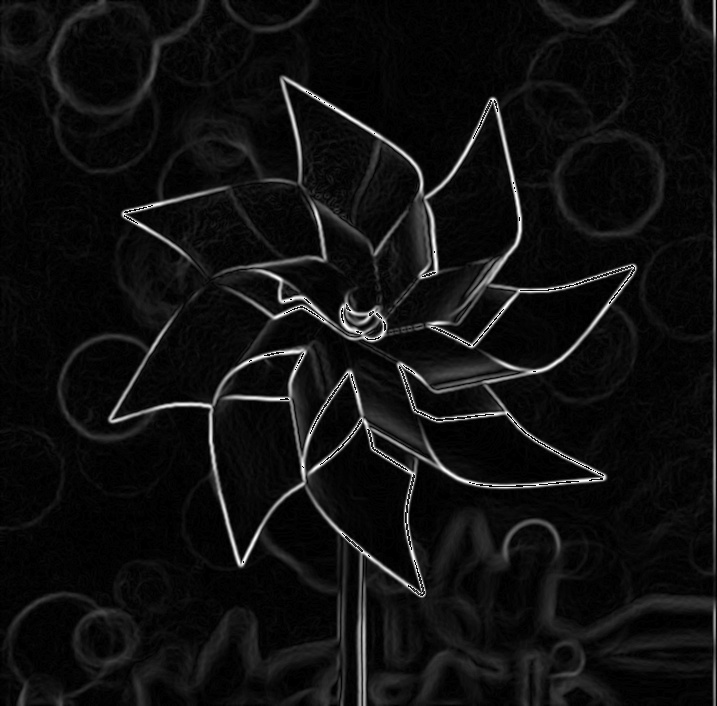
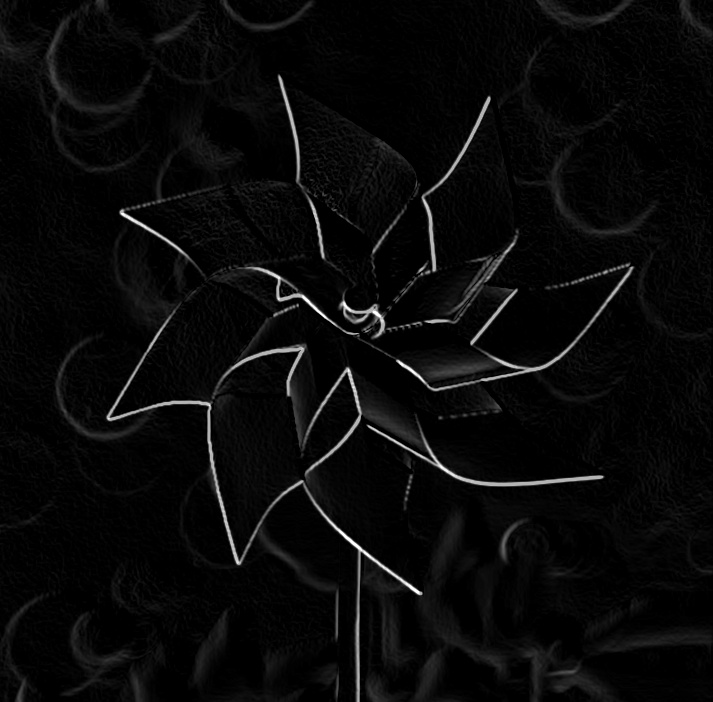
all2

diff --git a/utils.py b/utils.py
@@ -80,13 +80,13 @@ def double_threshold_image(img, lowThreshold, highThreshold, weak_value):
     M, N = img.shape
     thresholded_img = np.zeros((M, N), dtype=np.int32)
     strong_value = 255
-    zeros_i, zeros_j = np.where(img < lowThreshold)
-    weak_i, weak_j = np.where((img <= highThreshold) & (img >= lowThreshold))
-    strong_i, strong_j = np.where(img > highThreshold)
-
+    
+    strong_i, strong_j = np.where(img >= highThreshold)
+    weak_i, weak_j = np.where((img >= lowThreshold) & (img < highThreshold))
+    
     thresholded_img[strong_i, strong_j] = strong_value
     thresholded_img[weak_i, weak_j] = weak_value
-    thresholded_img[zeros_i, zeros_j] = 0
+    
     return thresholded_img
 
 def hysteresis(img, weak, strong=255):
